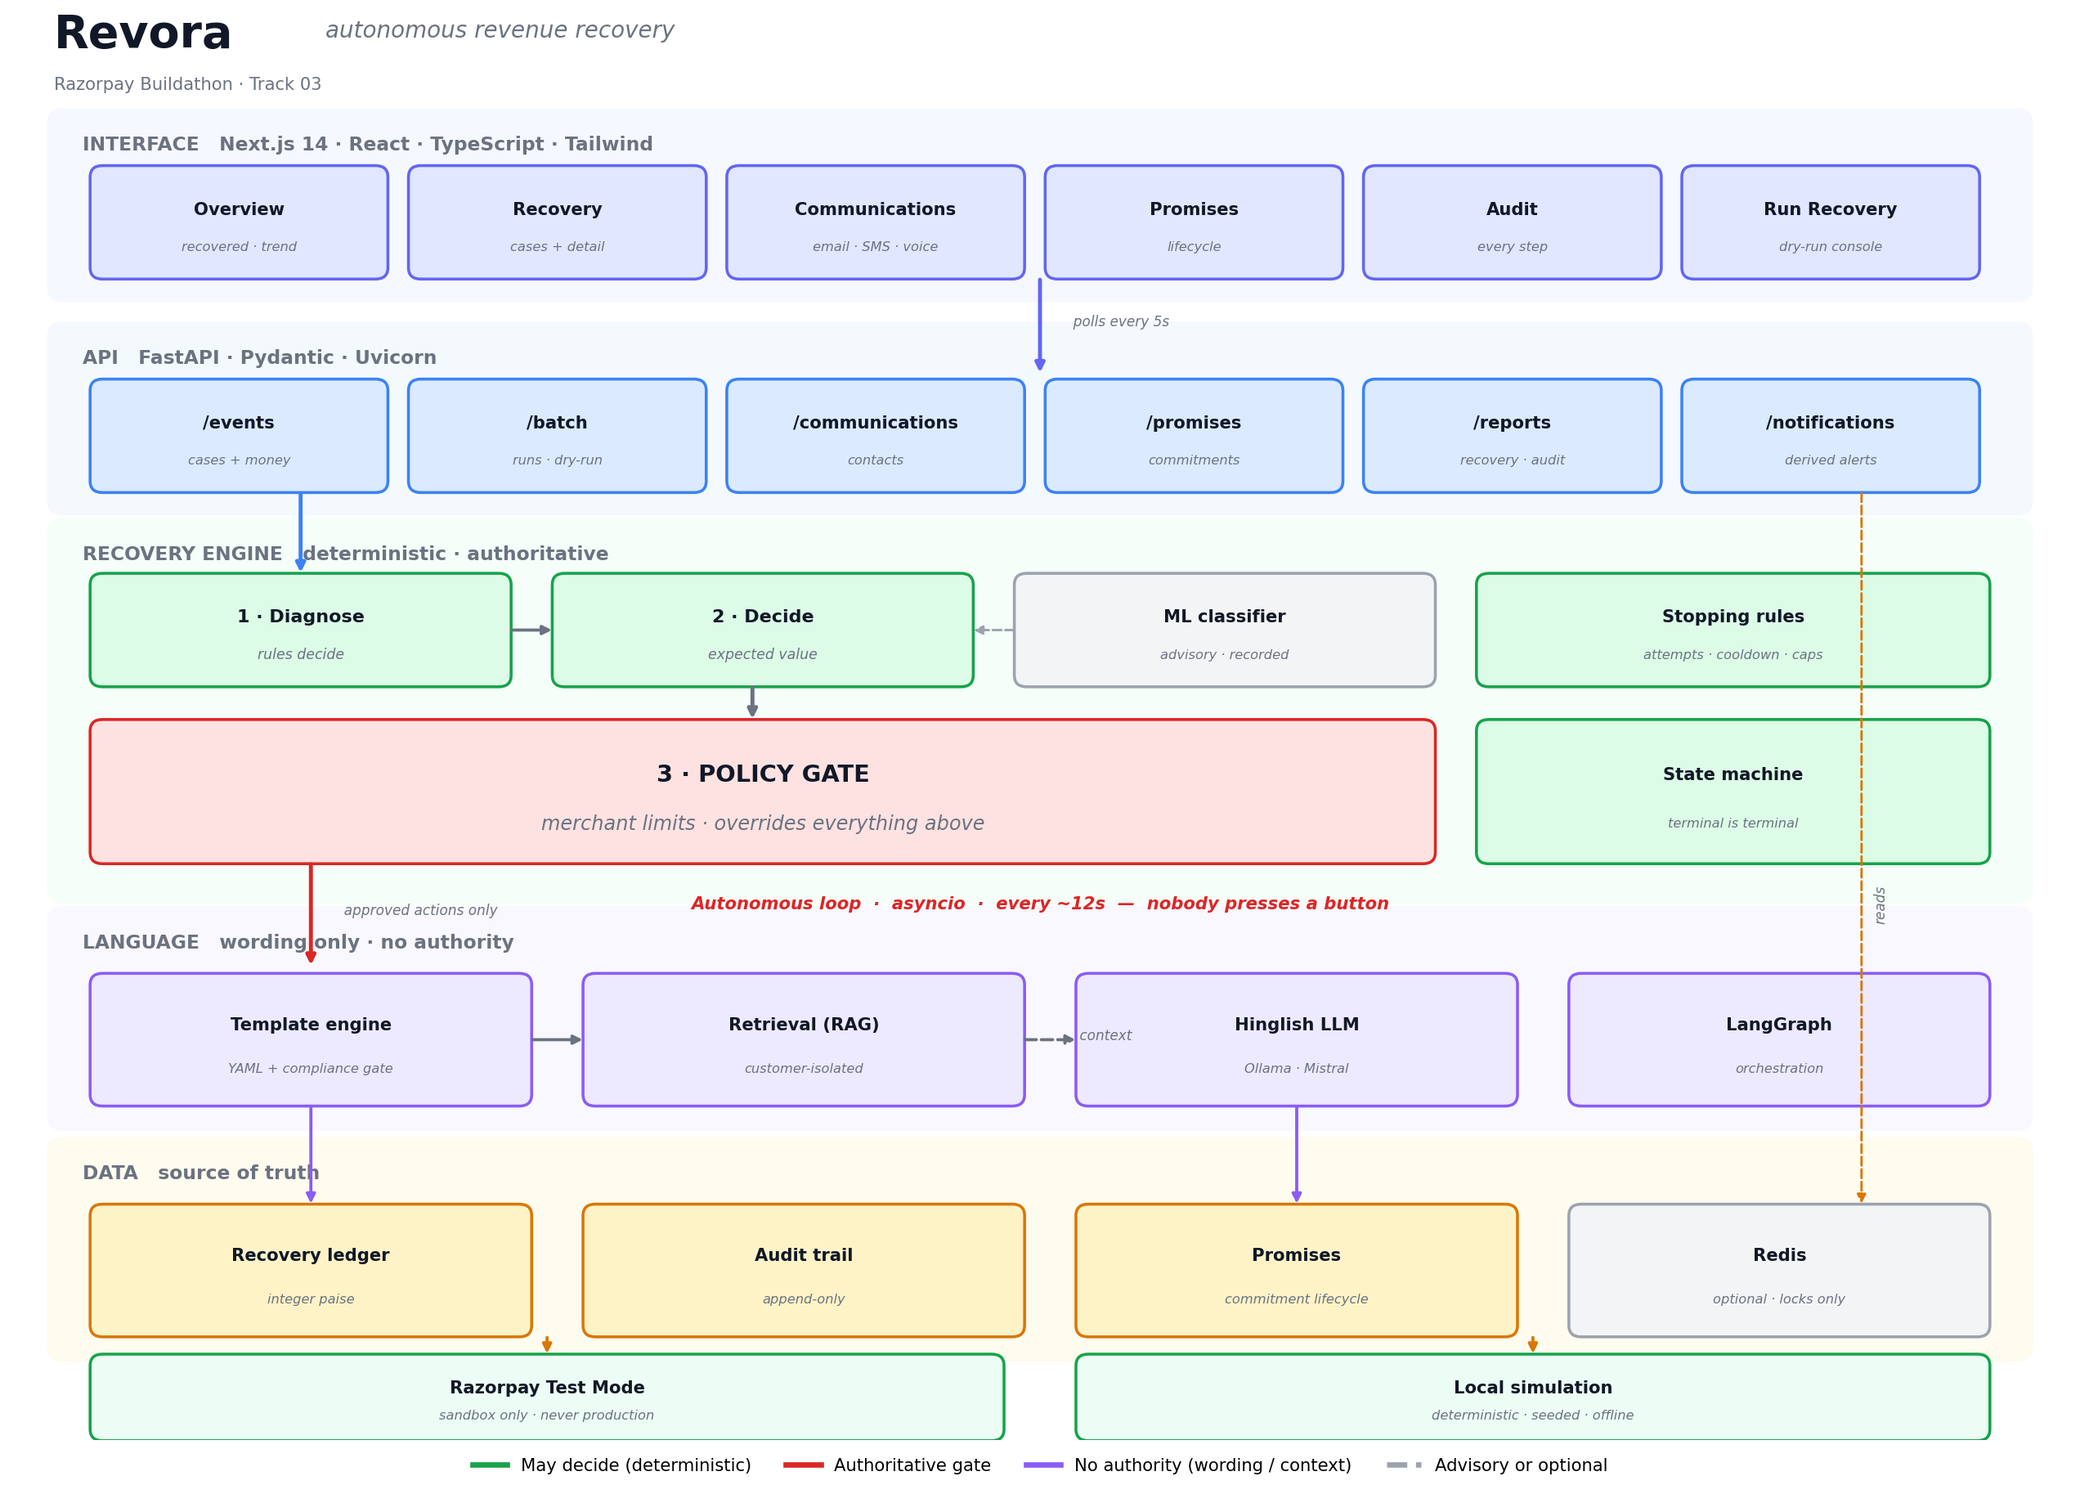
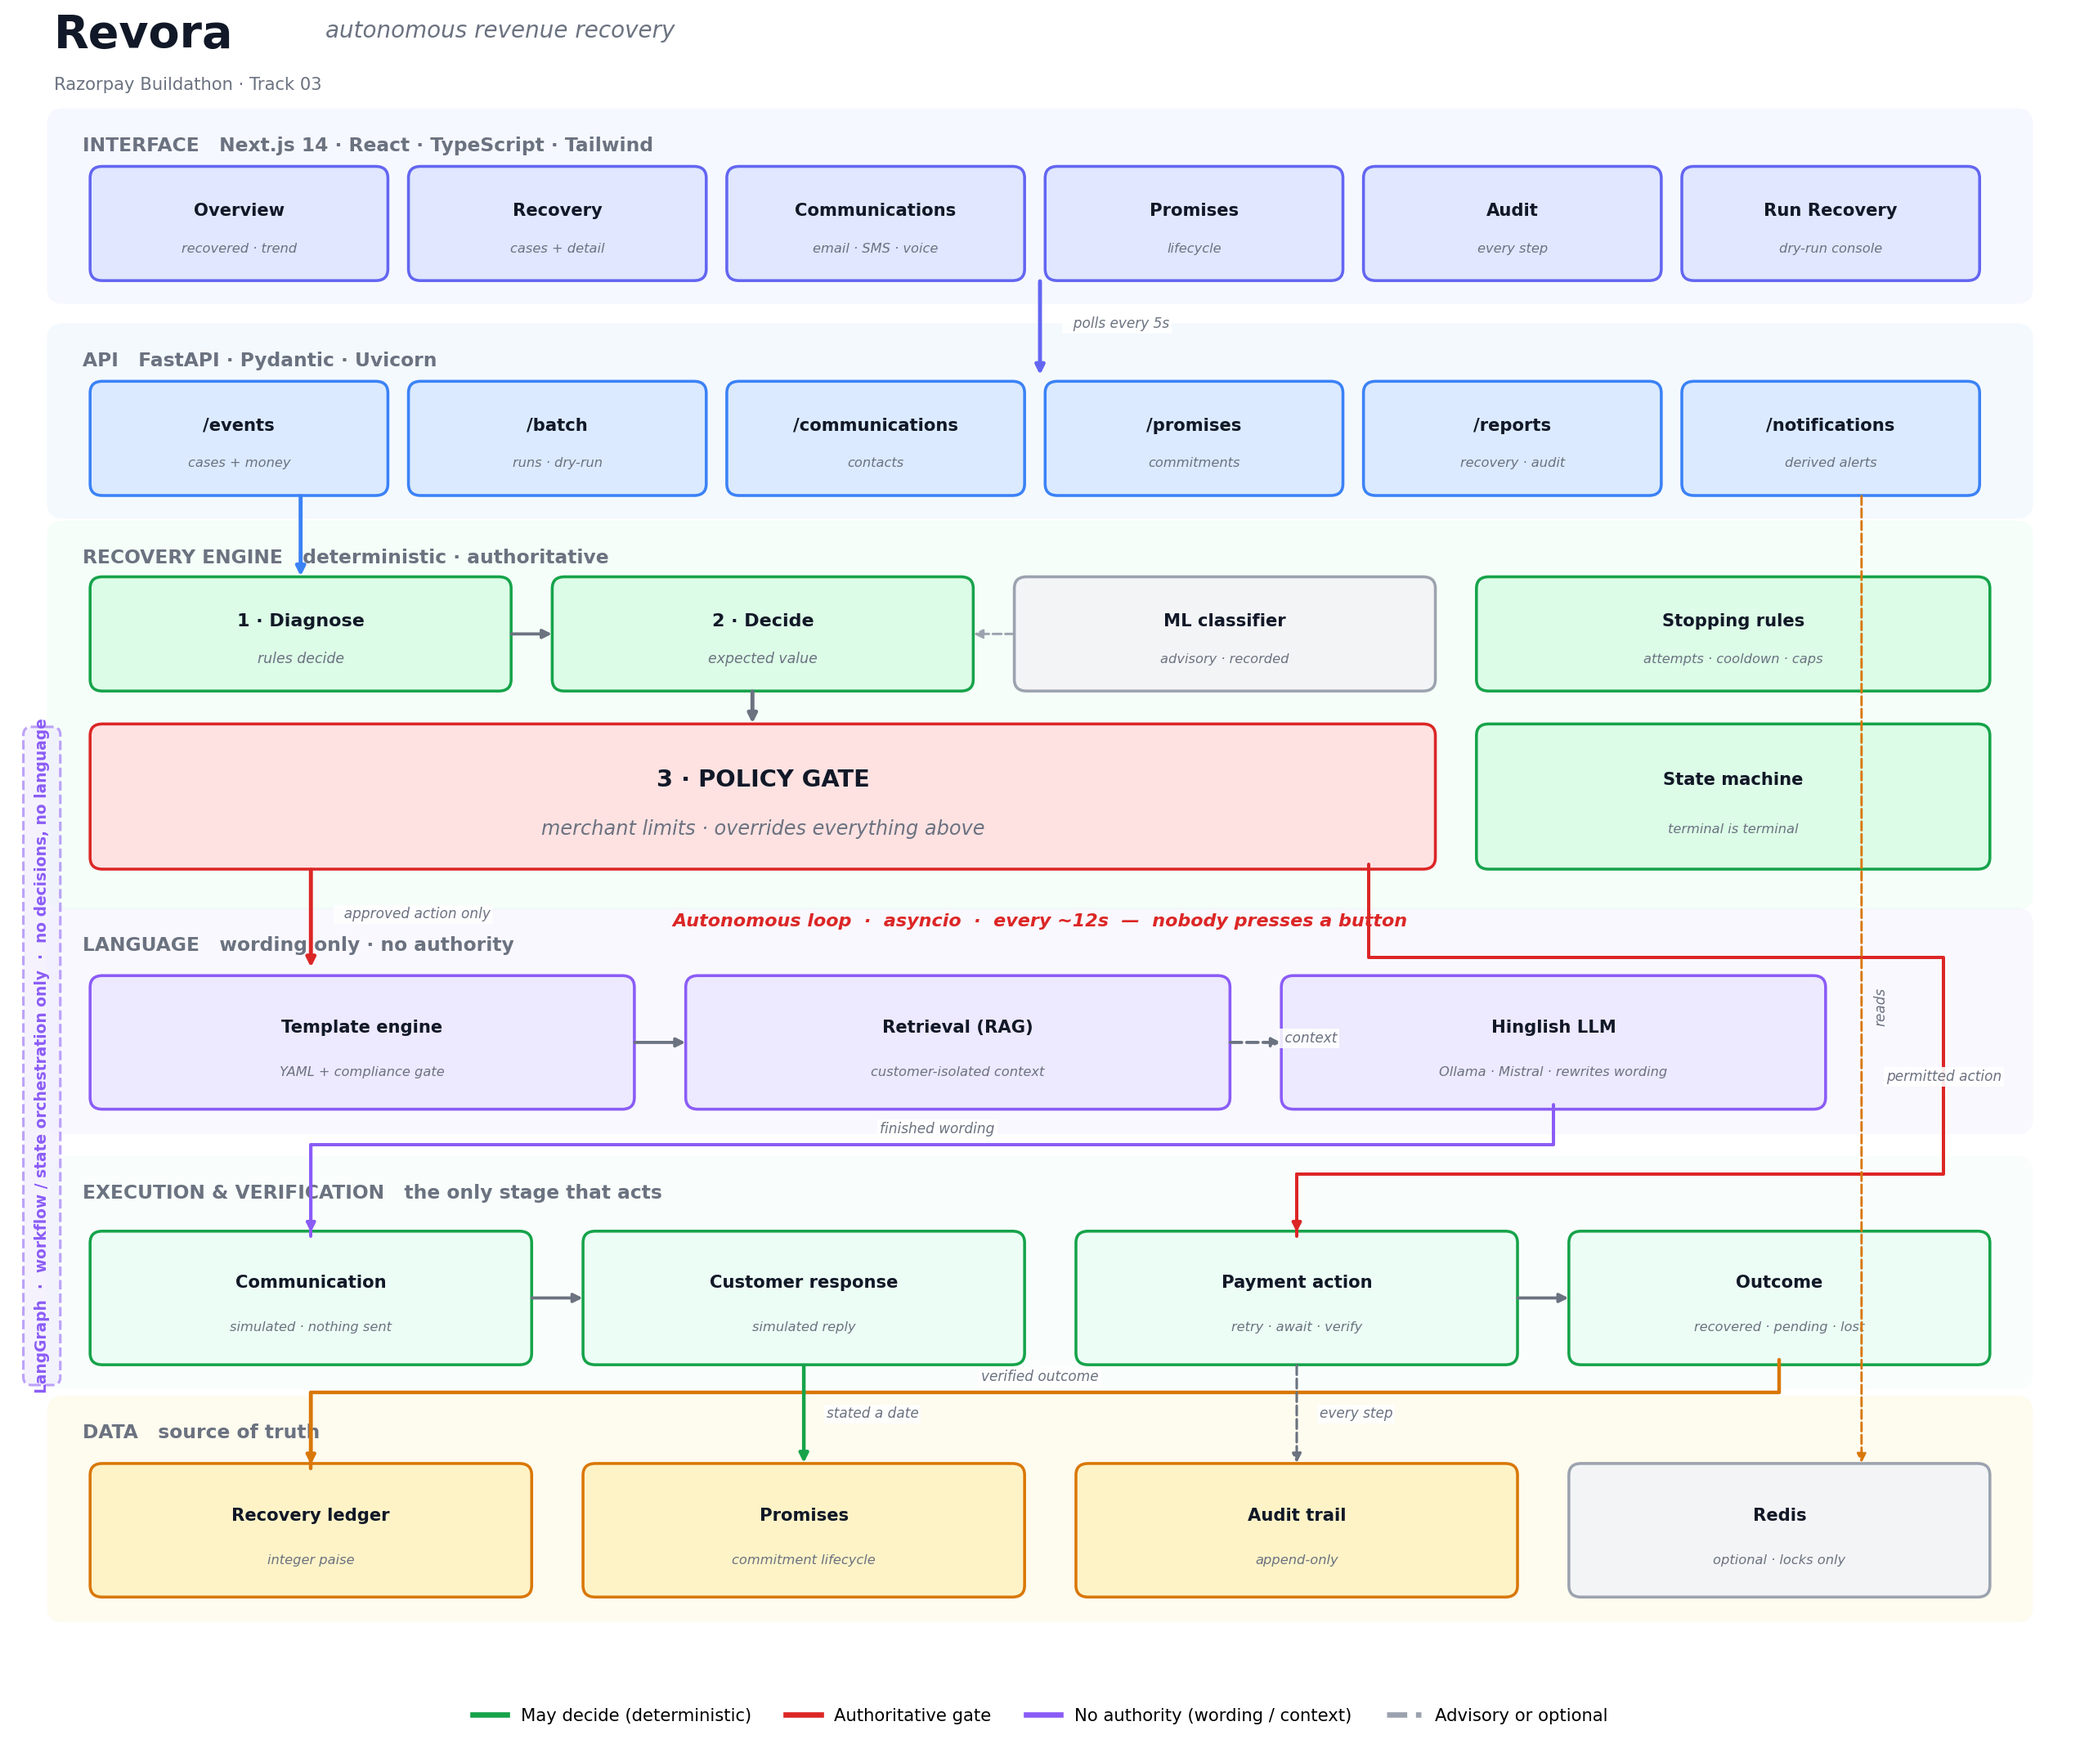
fixed architecture

diff --git a/frontend/app/about/page.tsx b/frontend/app/about/page.tsx
@@ -152,8 +152,17 @@ const LAYERS: Array<{ name: string; items: string[] }> = [
       'State machine',
     ],
   },
-  { name: 'Language', items: ['Ollama', 'Mistral', 'YAML templates', 'Compliance rules'] },
-  { name: 'Orchestration', items: ['LangGraph', 'Retrieval layer'] },
+  {
+    name: 'Language',
+    items: ['Ollama — wording only', 'Mistral', 'YAML templates', 'Compliance rules'],
+  },
+  {
+    // Qualified deliberately. Unlabelled, "LangGraph" beside "Retrieval" reads
+    // as though the graph decides something; it coordinates the sequence the
+    // deterministic engines run in, and generates nothing.
+    name: 'Orchestration',
+    items: ['LangGraph — workflow only', 'Retrieval — context only'],
+  },
   { name: 'Data', items: ['SQLAlchemy', 'SQLite', 'Redis (optional)'] },
   { name: 'Payments', items: ['Razorpay Test Mode', 'Simulation gateway'] },
 ];

diff --git a/docs/make_architecture.py b/docs/make_architecture.py
@@ -34,9 +34,9 @@ LANG_EDGE = "#8b5cf6"
 DATA = "#fef3c7"
 DATA_EDGE = "#d97706"
 
-fig, ax = plt.subplots(figsize=(16, 11.5))
+fig, ax = plt.subplots(figsize=(16, 13.4))
 ax.set_xlim(0, 100)
-ax.set_ylim(0, 74)
+ax.set_ylim(0, 86)
 ax.axis("off")
 fig.patch.set_facecolor("white")
 
@@ -53,6 +53,30 @@ def band(y, height, label, colour):
     # below it. Overlaying the two made the labels unreadable.
     ax.text(3.4, y + height - 1.1, label, fontsize=10.5, color=MUTED,
             weight="bold", va="top", zorder=1)
+
+
+def polyline(points, colour=MUTED, lw=1.8, dashed=False, label="", label_at=None):
+    """Route a connection through explicit waypoints.
+
+    Long links are drawn in the gaps BETWEEN bands rather than across them. A
+    line that passes through three unrelated boxes on its way somewhere is
+    worse than no line: a reader cannot tell what it actually connects.
+    """
+    xs = [p[0] for p in points]
+    ys = [p[1] for p in points]
+    ax.plot(xs, ys, color=colour, linewidth=lw,
+            linestyle="--" if dashed else "-",
+            solid_capstyle="round", zorder=4)
+    ax.annotate(
+        "", xy=points[-1], xytext=points[-2],
+        arrowprops=dict(arrowstyle="-|>", color=colour, linewidth=lw,
+                        shrinkA=0, shrinkB=2),
+        zorder=4,
+    )
+    if label and label_at:
+        ax.text(label_at[0], label_at[1], label, fontsize=7.6, color=MUTED,
+                style="italic", ha="center", zorder=6,
+                bbox=dict(facecolor="white", edgecolor="none", alpha=0.9, pad=1.4))
 
 
 def box(x, y, w, h, title, subtitle="", face=UI, edge=UI_EDGE, bold=True, fs=10):
@@ -73,28 +97,41 @@ def box(x, y, w, h, title, subtitle="", face=UI, edge=UI_EDGE, bold=True, fs=10)
                 fontsize=fs, weight="bold" if bold else "normal", color=INK, zorder=3)
 
 
-def arrow(x1, y1, x2, y2, colour=MUTED, style="-|>", lw=1.7, dashed=False, label=""):
+def arrow(
+    x1, y1, x2, y2, colour=MUTED, style="-|>", lw=1.7, dashed=False,
+    label="", elbow=None, label_at=None,
+):
+    """Draw a connection.
+
+    ``elbow`` takes a matplotlib connectionstyle. Long links are routed as
+    right angles rather than diagonals: a diagonal across four bands passes
+    through boxes it has nothing to do with, and a reader cannot tell which
+    ones it is actually connecting.
+    """
     ax.annotate(
         "", xy=(x2, y2), xytext=(x1, y1),
         arrowprops=dict(
             arrowstyle=style, color=colour, linewidth=lw,
             linestyle="--" if dashed else "-",
-            shrinkA=3, shrinkB=3, connectionstyle="arc3,rad=0",
+            shrinkA=3, shrinkB=3,
+            connectionstyle=elbow or "arc3,rad=0",
         ),
         zorder=4,
     )
     if label:
-        ax.text((x1 + x2) / 2 + 1.2, (y1 + y2) / 2, label, fontsize=7.6,
-                color=MUTED, style="italic", zorder=5)
+        lx, ly = label_at or ((x1 + x2) / 2 + 1.2, (y1 + y2) / 2)
+        ax.text(lx, ly, label, fontsize=7.6, color=MUTED, style="italic",
+                zorder=6, bbox=dict(facecolor="white", edgecolor="none",
+                                    alpha=0.85, pad=1.2))
 
 
 # ---------------------------------------------------------------- title
-ax.text(2, 72.4, "Revora", fontsize=25, weight="bold", color=INK)
-ax.text(15.2, 72.9, "autonomous revenue recovery", fontsize=12.5, color=MUTED, style="italic")
-ax.text(2, 70.2, "Razorpay Buildathon · Track 03", fontsize=9.5, color=MUTED)
+ax.text(2, 84.4, "Revora", fontsize=25, weight="bold", color=INK)
+ax.text(15.2, 84.9, "autonomous revenue recovery", fontsize=12.5, color=MUTED, style="italic")
+ax.text(2, 82.2, "Razorpay Buildathon · Track 03", fontsize=9.5, color=MUTED)
 
 # ---------------------------------------------------------------- interface
-band(59.5, 9.4, "INTERFACE   Next.js 14 · React · TypeScript · Tailwind", UI)
+band(71.5, 9.4, "INTERFACE   Next.js 14 · React · TypeScript · Tailwind", UI)
 for i, (t, sub) in enumerate([
     ("Overview", "recovered · trend"),
     ("Recovery", "cases + detail"),
@@ -103,10 +140,10 @@ for i, (t, sub) in enumerate([
     ("Audit", "every step"),
     ("Run Recovery", "dry-run console"),
 ]):
-    box(4 + i * 15.5, 60.6, 14, 5.4, t, sub, UI, UI_EDGE, fs=9.5)
+    box(4 + i * 15.5, 72.6, 14, 5.4, t, sub, UI, UI_EDGE, fs=9.5)
 
 # ---------------------------------------------------------------- api
-band(48.4, 9.4, "API   FastAPI · Pydantic · Uvicorn", API)
+band(60.4, 9.4, "API   FastAPI · Pydantic · Uvicorn", API)
 for i, (t, sub) in enumerate([
     ("/events", "cases + money"),
     ("/batch", "runs · dry-run"),
@@ -115,65 +152,101 @@ for i, (t, sub) in enumerate([
     ("/reports", "recovery · audit"),
     ("/notifications", "derived alerts"),
 ]):
-    box(4 + i * 15.5, 49.5, 14, 5.4, t, sub, API, API_EDGE, fs=9.5)
+    box(4 + i * 15.5, 61.5, 14, 5.4, t, sub, API, API_EDGE, fs=9.5)
 
-arrow(50, 60.6, 50, 55.2, UI_EDGE, lw=2.2, label="  polls every 5s")
+arrow(50, 72.6, 50, 67.2, UI_EDGE, lw=2.2, label="  polls every 5s")
 
 # ---------------------------------------------------------------- engine
-band(28.2, 19.4, "RECOVERY ENGINE   deterministic · authoritative", ENGINE)
+band(40.2, 19.4, "RECOVERY ENGINE   deterministic · authoritative", ENGINE)
 
-box(4, 39.4, 20, 5.4, "1 · Diagnose", "rules decide", ENGINE, ENGINE_EDGE)
-box(26.5, 39.4, 20, 5.4, "2 · Decide", "expected value", ENGINE, ENGINE_EDGE)
-box(49, 39.4, 20, 5.4, "ML classifier", "advisory · recorded", "#f3f4f6", "#9ca3af", fs=9.5)
-box(71.5, 39.4, 24.5, 5.4, "Stopping rules", "attempts · cooldown · caps", ENGINE, ENGINE_EDGE, fs=9.5)
+box(4, 51.4, 20, 5.4, "1 · Diagnose", "rules decide", ENGINE, ENGINE_EDGE)
+box(26.5, 51.4, 20, 5.4, "2 · Decide", "expected value", ENGINE, ENGINE_EDGE)
+box(49, 51.4, 20, 5.4, "ML classifier", "advisory · recorded", "#f3f4f6", "#9ca3af", fs=9.5)
+box(71.5, 51.4, 24.5, 5.4, "Stopping rules", "attempts · cooldown · caps", ENGINE, ENGINE_EDGE, fs=9.5)
 
-box(4, 30.2, 65, 7.0, "3 · POLICY GATE", "merchant limits · overrides everything above", GATE, GATE_EDGE, fs=13)
-box(71.5, 30.2, 24.5, 7.0, "State machine", "terminal is terminal", ENGINE, ENGINE_EDGE, fs=9.5)
+box(4, 42.2, 65, 7.0, "3 · POLICY GATE", "merchant limits · overrides everything above", GATE, GATE_EDGE, fs=13)
+box(71.5, 42.2, 24.5, 7.0, "State machine", "terminal is terminal", ENGINE, ENGINE_EDGE, fs=9.5)
 
-arrow(14, 49.5, 14, 44.8, API_EDGE, lw=2.2)
-arrow(24, 42.1, 26.5, 42.1, MUTED)
-arrow(49, 42.1, 46.5, 42.1, "#9ca3af", dashed=True, lw=1.3)
-arrow(36, 39.4, 36, 37.2, MUTED, lw=2.2)
+arrow(14, 61.5, 14, 56.8, API_EDGE, lw=2.2)
+arrow(24, 54.1, 26.5, 54.1, MUTED)
+arrow(49, 54.1, 46.5, 54.1, "#9ca3af", dashed=True, lw=1.3)
+arrow(36, 51.4, 36, 49.2, MUTED, lw=2.2)
 
 # ---------------------------------------------------------------- language
-band(16.4, 11.0, "LANGUAGE   wording only · no authority", LANG)
-box(4, 17.6, 21, 6.4, "Template engine", "YAML + compliance gate", LANG, LANG_EDGE, fs=9.5)
-box(28, 17.6, 21, 6.4, "Retrieval (RAG)", "customer-isolated", LANG, LANG_EDGE, fs=9.5)
-box(52, 17.6, 21, 6.4, "Hinglish LLM", "Ollama · Mistral", LANG, LANG_EDGE, fs=9.5)
-box(76, 17.6, 20, 6.4, "LangGraph", "orchestration", LANG, LANG_EDGE, fs=9.5)
+# Wording only. Nothing in this band decides anything, contacts anyone, or
+# records money — which is why no arrow leaves it for the ledger or for
+# Promises. It hands finished TEXT to the execution stage below.
+band(28.6, 11.0, "LANGUAGE   wording only · no authority", LANG)
+box(4, 29.8, 26, 6.4, "Template engine", "YAML + compliance gate", LANG, LANG_EDGE, fs=9.5)
+box(33, 29.8, 26, 6.4, "Retrieval (RAG)", "customer-isolated context", LANG, LANG_EDGE, fs=9.5)
+box(62, 29.8, 26, 6.4, "Hinglish LLM", "Ollama · Mistral · rewrites wording", LANG, LANG_EDGE, fs=9.5)
 
-arrow(14.5, 30.2, 14.5, 24.4, GATE_EDGE, lw=2.2, label="  approved actions only")
-arrow(25, 20.8, 28, 20.8, MUTED)
-arrow(49, 20.8, 52, 20.8, MUTED, dashed=True, label=" context")
+arrow(14.5, 42.2, 14.5, 36.6, GATE_EDGE, lw=2.2, label="  approved action only")
+arrow(30, 33.0, 33, 33.0, MUTED)
+arrow(59, 33.0, 62, 33.0, MUTED, dashed=True, label=" context")
+
+# ---------------------------------------------------------------- execution
+# Where anything actually HAPPENS. Promises are born here, from a customer's
+# reply — never from the language layer, which only chose the words.
+band(15.4, 11.4, "EXECUTION & VERIFICATION   the only stage that acts", "#ecfdf5")
+box(4, 16.6, 21, 6.4, "Communication", "simulated · nothing sent", "#ecfdf5", ENGINE_EDGE, fs=9.5)
+box(28, 16.6, 21, 6.4, "Customer response", "simulated reply", "#ecfdf5", ENGINE_EDGE, fs=9.5)
+box(52, 16.6, 21, 6.4, "Payment action", "retry · await · verify", "#ecfdf5", ENGINE_EDGE, fs=9.5)
+box(76, 16.6, 20, 6.4, "Outcome", "recovered · pending · lost", "#ecfdf5", ENGINE_EDGE, fs=9.5)
+
+polyline([(75, 29.8), (75, 27.7), (14.5, 27.7), (14.5, 23.0)],
+         colour=LANG_EDGE, lw=1.8,
+         label="finished wording", label_at=(45, 28.3))
+polyline([(66, 42.2), (66, 37.4), (94, 37.4), (94, 26.2), (62.5, 26.2), (62.5, 23.0)],
+         colour=GATE_EDGE, lw=1.8,
+         label="permitted action", label_at=(94, 31.0))
+arrow(25, 19.8, 28, 19.8, MUTED)
+arrow(73, 19.8, 76, 19.8, MUTED)
 
 # ---------------------------------------------------------------- data
-band(4.4, 11.0, "DATA   source of truth", DATA)
-box(4, 5.6, 21, 6.4, "Recovery ledger", "integer paise", DATA, DATA_EDGE, fs=9.5)
-box(28, 5.6, 21, 6.4, "Audit trail", "append-only", DATA, DATA_EDGE, fs=9.5)
-box(52, 5.6, 21, 6.4, "Promises", "commitment lifecycle", DATA, DATA_EDGE, fs=9.5)
-box(76, 5.6, 20, 6.4, "Redis", "optional · locks only", "#f3f4f6", "#9ca3af", fs=9.5)
+band(3.4, 11.0, "DATA   source of truth", DATA)
+box(4, 4.6, 21, 6.4, "Recovery ledger", "integer paise", DATA, DATA_EDGE, fs=9.5)
+box(28, 4.6, 21, 6.4, "Promises", "commitment lifecycle", DATA, DATA_EDGE, fs=9.5)
+box(52, 4.6, 21, 6.4, "Audit trail", "append-only", DATA, DATA_EDGE, fs=9.5)
+box(76, 4.6, 20, 6.4, "Redis", "optional · locks only", "#f3f4f6", "#9ca3af", fs=9.5)
 
-arrow(14.5, 17.6, 14.5, 12.0, LANG_EDGE)
-arrow(62.5, 17.6, 62.5, 12.0, LANG_EDGE)
-arrow(90, 49.5, 90, 12.0, DATA_EDGE, dashed=True, lw=1.3)
-ax.text(90.6, 27, "reads", fontsize=7.6, color=MUTED, style="italic", rotation=90)
+# The ledger records EXECUTION outcomes, not anything the language layer made.
+polyline([(86, 16.6), (86, 14.9), (14.5, 14.9), (14.5, 11.0)],
+         colour=DATA_EDGE, lw=2.0,
+         label="verified outcome", label_at=(50, 15.5))
+# A promise comes from what the customer SAID, not from the LLM.
+arrow(38.5, 16.6, 38.5, 11.0, ENGINE_EDGE, lw=2.0,
+      label="stated a date", label_at=(39.6, 13.6))
+arrow(62.5, 16.6, 62.5, 11.0, MUTED, dashed=True, lw=1.4,
+      label="every step", label_at=(63.6, 13.6))
+arrow(90, 61.5, 90, 11.0, DATA_EDGE, dashed=True, lw=1.3)
+ax.text(90.6, 34, "reads", fontsize=7.6, color=MUTED, style="italic", rotation=90)
 
-# ---------------------------------------------------------------- gateways
-box(4, 0.2, 44, 4.0, "Razorpay Test Mode", "sandbox only · never production", "#ecfdf5", ENGINE_EDGE, fs=9.5)
-box(52, 0.2, 44, 4.0, "Local simulation", "deterministic · seeded · offline", "#ecfdf5", ENGINE_EDGE, fs=9.5)
-arrow(26, 5.6, 26, 4.2, DATA_EDGE)
-arrow(74, 5.6, 74, 4.2, DATA_EDGE)
-
-# ---------------------------------------------------------------- autonomy
+# ---------------------------------------------------------------- orchestration
+# LangGraph coordinates the sequence above. It is drawn ALONGSIDE the flow, with
+# no arrow into any component, because it neither decides nor generates.
 ax.add_patch(
     patches.FancyBboxPatch(
-        (73.5, 42.6), 0.001, 0.001, boxstyle="round", facecolor="none", edgecolor="none"
+        (0.6, 15.4), 1.6, 33.8,
+        boxstyle="round,pad=0.1,rounding_size=0.4",
+        facecolor=LANG, edgecolor=LANG_EDGE, linewidth=1.4,
+        linestyle="--", alpha=0.55, zorder=1,
     )
 )
 ax.text(
-    50, 27.6,
+    1.4, 32.3,
+    "LangGraph  ·  workflow / state orchestration only  ·  no decisions, no language",
+    rotation=90, ha="center", va="center", fontsize=8.4,
+    color=LANG_EDGE, weight="bold", zorder=3,
+)
+
+# ---------------------------------------------------------------- autonomy
+# The loop drives the WHOLE workflow, so it sits beside the engine that starts
+# it — not beside the language layer.
+ax.text(
+    50, 39.0,
     "Autonomous loop  ·  asyncio  ·  every ~12s  —  nobody presses a button",
-    ha="center", fontsize=9.5, color=GATE_EDGE, weight="bold", style="italic", zorder=5,
+    ha="center", fontsize=10, color=GATE_EDGE, weight="bold", style="italic", zorder=5,
 )
 
 # ---------------------------------------------------------------- legend
